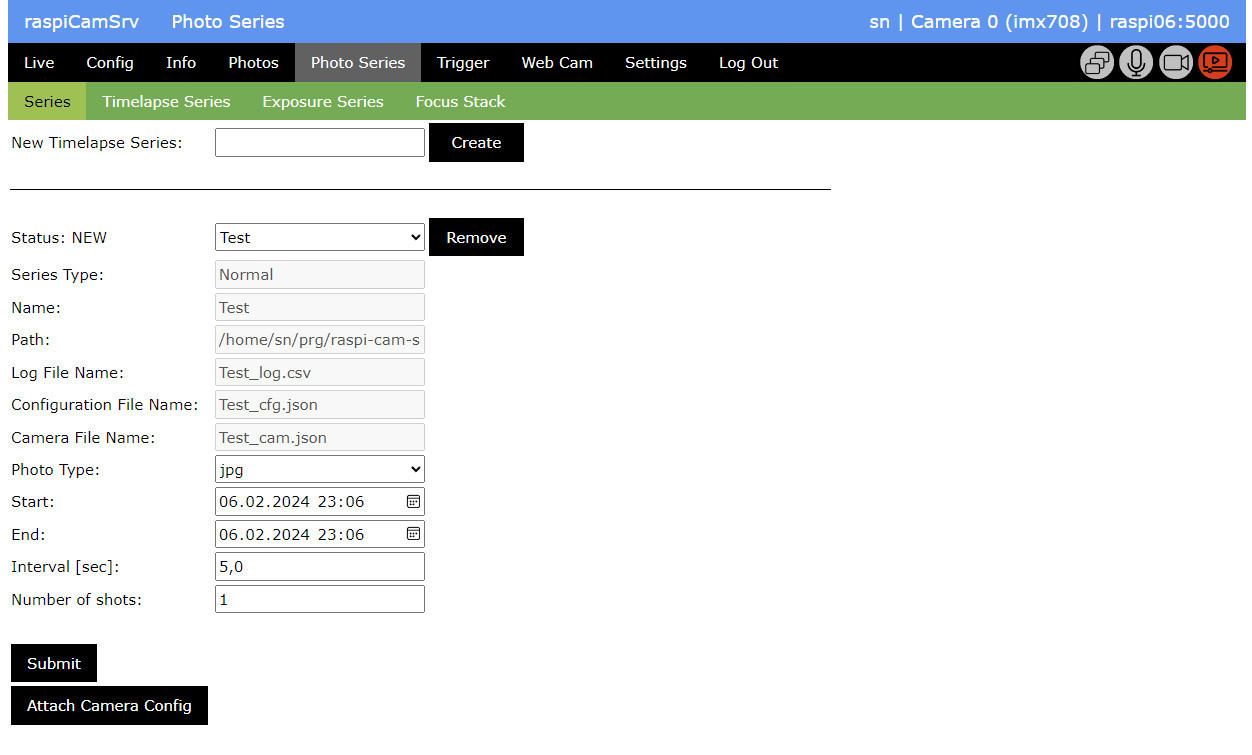
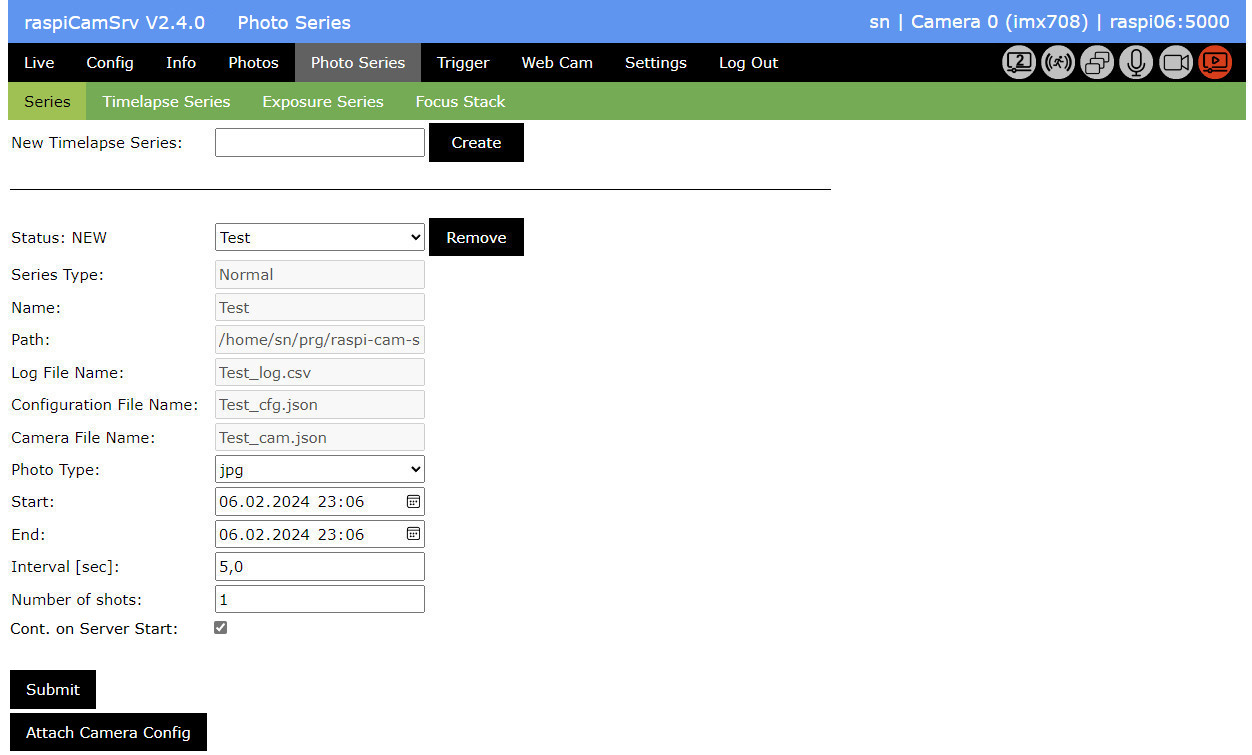
V2.4.0 - See Release Notes

Changed region(s): [[0.0, 0.8225, 0.1869, 1.0], [0.0312, 0.0, 0.2804, 0.0609], [0.7788, 0.0609, 0.8722, 0.1219]]

diff --git a/raspiCamSrv/templates/photoseries/main.html b/raspiCamSrv/templates/photoseries/main.html
@@ -362,6 +362,26 @@
                         {% endif %}
                     </tr>
                     <tr>
+                        <td style="width:30%" class="w3-tooltip">
+                            <span style="position:absolute;left:0;bottom:30px" class="w3-text w3-tag">
+                                Activate this checkbox if you want an active series 
+                                to be automatically continued on server start.
+                            </span>
+                            <label for="isautocontinue">Cont. on Server Start:</label>
+                        </td>
+                        <td style="width:25%">
+                            {% if sr.continueOnServerStart == True %}
+                            <input type="checkbox" id="isautocontinue" name="isautocontinue" value="1" checked>
+                            {% else %}
+                            <input type="checkbox" id="isautocontinue" name="isautocontinue" value="0">
+                            {% endif %}
+                        </td>
+                        <td style="width:25%">
+                        </td>
+                        <td style="width:20%">
+                        </td>
+                    </tr>
+                    <tr>
                         <td colspan="4">
                             &nbsp;
                         </td>

diff --git a/raspiCamSrv/photoseries.py b/raspiCamSrv/photoseries.py
@@ -421,6 +421,10 @@ def series_properties():
         serEndFormIso = request.form["serend"]
         serIntForm = float(request.form["serinterval"])
         serShtForm = int(request.form["sernrshots"])
+        if request.form.get("isautocontinue") is None:
+            continueOnServerStart = False
+        else:
+            continueOnServerStart = True
         # Iso date from form does not include seconds, 
         # so we need to cut off the seconds from the stored series
         serEndOldIso = sr.endIso
@@ -463,6 +467,11 @@ def series_properties():
             sr.end = serEnd
             sr.interval = serInt
             sr.nrShots = serNrShots
+            if sr.isExposureSeries == False \
+            and sr.isFocusStackingSeries == False:
+                sr.continueOnServerStart = continueOnServerStart
+            else:
+                sr.continueOnServerStart = False
             sr.nextStatus("configure")
             sr.persist()
     return render_template("photoseries/main.html", sc=sc, tl=tl, sr=sr, cp=cp)
@@ -612,6 +621,7 @@ def expseries_properties():
                 msg = "The series is already marked as Focus Stack"
             else:
                 sr.isExposureSeries = True
+                sr.continueOnServerStart = False
                 if request.form.get("isexptimefix") is None:
                     sr.isExpExpTimeFix = False
                     if request.form.get("isexpgainfix") is None:
@@ -724,6 +734,7 @@ def focusstack_properties():
                             ok = False
             if ok:
                 sr.isFocusStackingSeries = True
+                sr.continueOnServerStart = False
                 nrShots, focusStop = calcFocusSeries(focusStart, focusStop, focusStep)
                 sr.focalDistStart = focusStart
                 sr.focalDistStop = focusStop

diff --git a/raspiCamSrv/photoseriesCfg.py b/raspiCamSrv/photoseriesCfg.py
@@ -27,6 +27,7 @@ class Series():
         self._nrShots = None
         self._curShots = None
         self._type = "jpg"
+        self._continueOnServerStart = False
         self._showPreview = True
         self._logFile = None
         self._cfgFile = None
@@ -220,6 +221,14 @@ class Series():
     @type.setter
     def type(self, value: str):
         self._type = value
+    
+    @property
+    def continueOnServerStart(self) -> bool:
+        return self._continueOnServerStart
+
+    @continueOnServerStart.setter
+    def continueOnServerStart(self, value: bool):
+        self._continueOnServerStart = value
     
     @property
     def showPreview(self) -> bool:
@@ -895,13 +904,21 @@ class PhotoSeriesCfg():
             tls = []
         tls.sort()
         logger.debug("initFromTlFolder - Found TL series: %s", tls)
+        curSer = None
+        lastSer = None
         for tl in tls:
             spath = self.rootPath + "/" + tl
             if os.path.isdir(spath):
                 ser = self._initSeriesFromCfg(spath, tl)
                 if ser:
                     self.tlSeries.append(ser)
-                    self.curSeries = ser
+                    lastSer = ser
+                    if ser.status == "ACTIVE":
+                        curSer = ser
+        if curSer:
+            self.curSeries = curSer
+        else:
+            self.curSeries = lastSer
         logger.debug("initFromTlFolder - # series: %s", len(self.tlSeries))
         
     def removeCurrentSeries(self):

diff --git a/raspiCamSrv/__init__.py b/raspiCamSrv/__init__.py
@@ -8,6 +8,7 @@ from raspiCamSrv.camera_pi import Camera
 from raspiCamSrv.motionDetector import MotionDetector
 import json
 import datetime
+import time
 from werkzeug.serving import is_running_from_reloader
 
 def create_app(test_config=None):
@@ -130,6 +131,24 @@ def create_app(test_config=None):
     tlCfg = photoseriesCfg.PhotoSeriesCfg()
     tlCfg.rootPath = tlRootPath
     tlCfg.initFromTlFolder()
+    tlCfg = photoseriesCfg.PhotoSeriesCfg()
+    
+    # Restart an active series if requested
+    if tlCfg.hasCurSeries:
+        sr = tlCfg.curSeries
+        if sr.status == "ACTIVE":
+            if sr.isExposureSeries == False \
+            and sr.isFocusStackingSeries == False:
+                if sr.continueOnServerStart == True:
+                    sr.nextStatus("pause")
+                    Camera().startPhotoSeries(sr)
+                    time.sleep(2)
+                    if sc.error is None and sr.error is None:
+                        sr.nextStatus("start")
+                else:
+                    sr.nextStatus("pause")
+            else:
+                sr.nextStatus("pause")
 
     # Autostart triggered capture, if configured
     if tc.operationAutoStart:

diff --git a/raspiCamSrv/version.py b/raspiCamSrv/version.py
@@ -1,1 +1,1 @@
-version="V2.3.6"
+version="V2.4.0"

diff --git a/README.md b/README.md
@@ -9,7 +9,7 @@ Up to now, it was tested on Pi Zero W, Pi Zero 2 W, Pi 4 and Pi 5 running Bullse
 
 Due to responsive layout from [W3.CSS](https://www.w3schools.com/w3css/), all modern browsers on PC, Mac or mobile devices can be used as clients.
 
-## Feature Overview V2.3.6
+## Feature Overview V2.4.0
 For more details, see the [User Guide](docs/UserGuide.md) and [Release Notes](./docs/ReleaseNotes.md)
 
 ![Live Overview](docs/img/Live.jpg)
@@ -21,6 +21,7 @@ For more details, see the [User Guide](docs/UserGuide.md) and [Release Notes](./
 The non-active camera stream and photo can be accessed through endpoints ```http://<server>:<port>/video_feed2``` and ```http://<server>:<port>/photo_feed2```, respectively.
 - Triggered capture of videos and photos (see [Triggered Capture of Videos and Photos](./docs/Trigger.md)) with motion detection
 - [Event viewer](./docs/TriggerEventViewer.md) with calendar overview
+- Notification on captured events by e-Mail (see [Notification](./docs/TriggerNotification.md))
 - For cameras with focus control (camera 3), it is also possible to graphically draw autofocus windows and trigger the autofocus to measure the LensPosition which is translated into a focal distance (see [Focus handling](docs/FocusHandling.md)).
 - For zooming, the intended image section can be [drawn graphically](docs/ZoomPan.md#graphically-setting-the-zoom-window) on the live stream area.
 - Photos, raw photos and videos can be taken, which are shown in the lower part of the [Live screen](docs/LiveScreen.md) together with their metadata or alternatively with their histogram (see [Photo taking](docs/Phototaking.md)).
@@ -41,8 +42,8 @@ This includes a continuous live stream while taking photos, videos or photo seri
 - Generator for executable Python code including the entire interface to Picamera2 of a **raspiCamSrv** session.   
 (See [Generation of Python Code for Camera](./docs/Troubelshooting.md#generation-of-python-code-for-camera))
 
-**New in V2.3.4**
-- Notification on captured events by e-Mail (see [Notification](./docs/TriggerNotification.md))
+**New in V2.4.0**
+- Photo Series can be set to be [automatically continued](./docs/PhotoSeries.md#series-configuration) on server start if they had been interrupted by a server stop or system shotdown or reboot.
 
 
 ## Known Issues

diff --git a/docs/PhotoSeries.md b/docs/PhotoSeries.md
@@ -4,7 +4,7 @@
 
 
 The *Photo Series* screen allows the management of different kinds of Photo Series and includes means for series configuration, lifecycle management, photo shooting and supervision.   
-A series is a seqience of photos taken within specific time intervals. Special kinds of series are [Timelapse Series](./PhotoSeriesTimelapse.md), [Exposure Series](./PhotoSeriesExp.md) and [Focus Stacks](./PhotoSeriesFocus.md).
+A series is a sequence of photos taken with specific time intervals. Special kinds of series are [Timelapse Series](./PhotoSeriesTimelapse.md), [Exposure Series](./PhotoSeriesExp.md) and [Focus Stacks](./PhotoSeriesFocus.md).
 
 ![Photoseries Screen](img/Photoseries2.jpg)
 
@@ -42,6 +42,10 @@ If this is done, the number of shots will be calculated based on the specified *
 From experience, the system will observe the given value within a tolerance of about 30 ms.
 - The *Number of Shosts* specifies the numper of photos intended for the series.   
 If the *End* time has not been explicitly specified, it will be calculated from *Interval* and *Number of Shots* considering the specified *Start* time.
+- The checkbox *Cont. on Server Start* allows to automatically continue an active series in case of a server restart.    
+Such a situation may happen if the server is stopped (explicitly or implicitly with a device shutdown) while a series is active.    
+For example, if you have a long running timelapse series, there might be power outages forcing a system reboot. If you have set the series to automatic continuation it will be continued as soon as the server is restarted. Otherwise, it will be in status PAUSED.   
+Automatic continuation is not used for [Exposure Series](./PhotoSeriesExp.md) or [Focus Stack](./PhotoSeriesFocus.md) series because these series are typically not running for a longer time.
 
 After the values have been entered, pressing the *Submit* button will calculate dependent parameters an change the [status](#photo-series-state-chart) of the series to "READY".
 

diff --git a/docs/ReleaseNotes.md b/docs/ReleaseNotes.md
@@ -2,6 +2,17 @@
 
 [![Up](img/goup.gif)](../README.md)
 
+## V2.4.0
+
+### New Features
+
+- Photo Series can be set to be [automatically continued](./docs/PhotoSeries.md#series-configuration) on server start if they had been interrupted by a server stop or system shotdown or reboot.
+
+### Bugfixes
+
+- The active [Photo Series](./PhotoSeries.md) had always been set to the alphabetically last series in case of a server start/restart, even if another series had been active at the time when the server was stopped.    
+Now, if a series with status "ACTIVE" is found when the server is started, this series will be set as active series.
+
 ## V2.3.6
 
 ### Bugfixes
